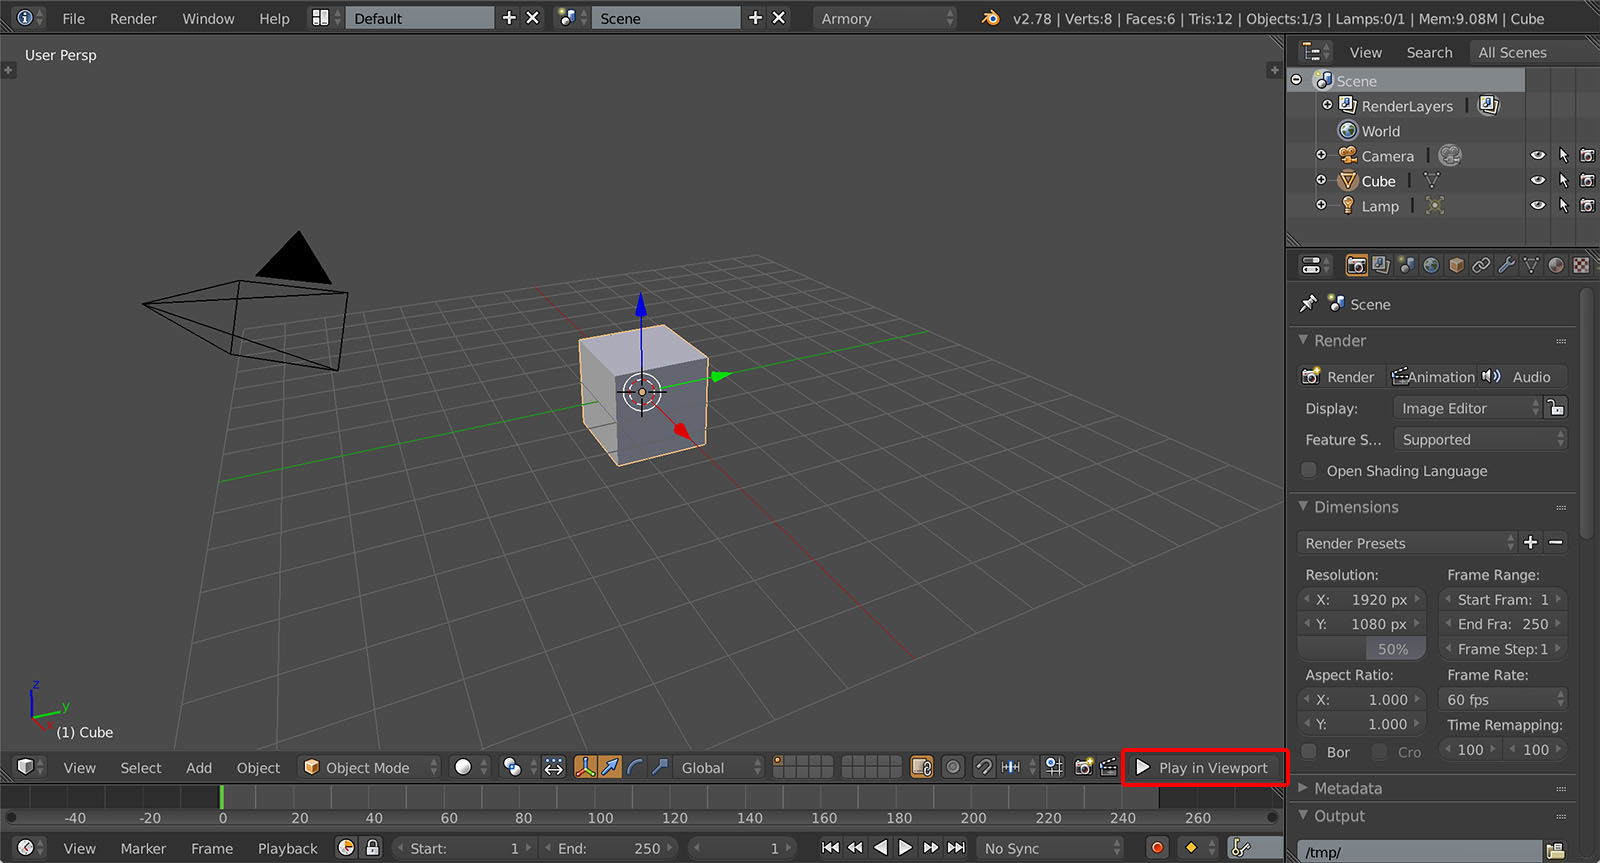
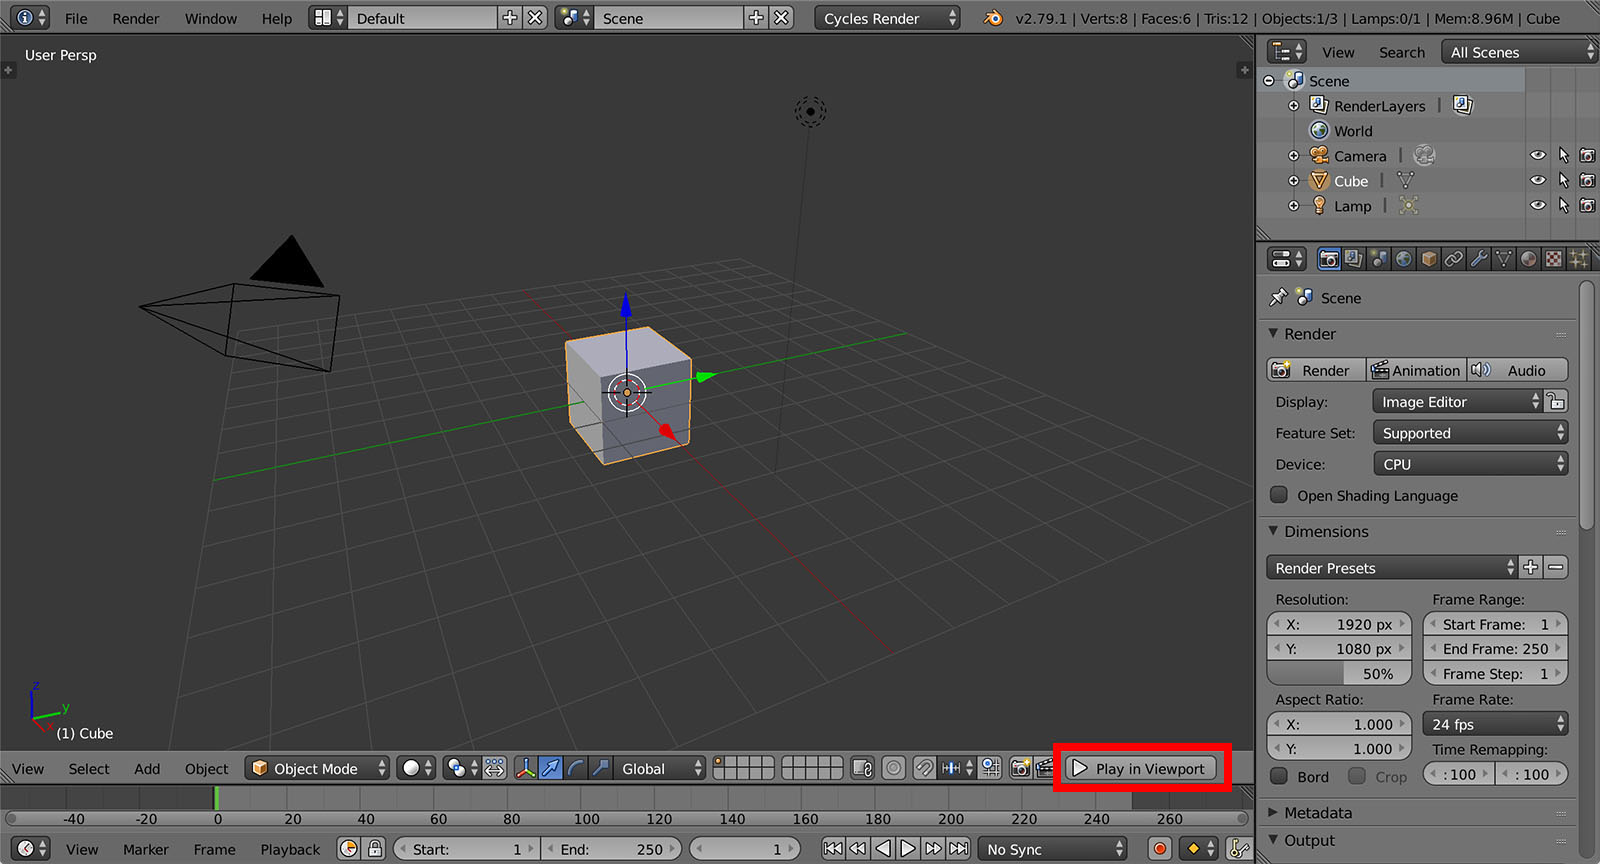
Update getting started guide

diff --git a/getting_started/setup.md b/getting_started/setup.md
@@ -1,6 +1,6 @@
 # Setup
 
-Armory bundle comes with everything you need. Currently, **Blender 2.78** is used with **Armory player** built in. If you do not require the built-in player, Armory can be used as [add-on only](setupaddon.md). Armory sources are available at [GitHub](https://github.com/armory3d/).
+Armory bundle comes with everything you need. **Blender 2.79** is used with **Armory player** built in. **Blender 2.8** builds are also available, currently in experimental state. If you do not require the built-in player, Armory can be used as [add-on only](setupaddon.md). Armory sources are available at [GitHub](https://github.com/armory3d/).
 
 - Unpack **Armory_version.zip** to your preferred location. On Windows, prefer a short path like 'C:\Dev' or unpack with [7-zip](http://www.7-zip.org) to prevent long path errors.
 - Run Blender located in unpacked SDK. On Windows, you may need to enable it for the first time by clicking **More info** - **Run anyway**. 
